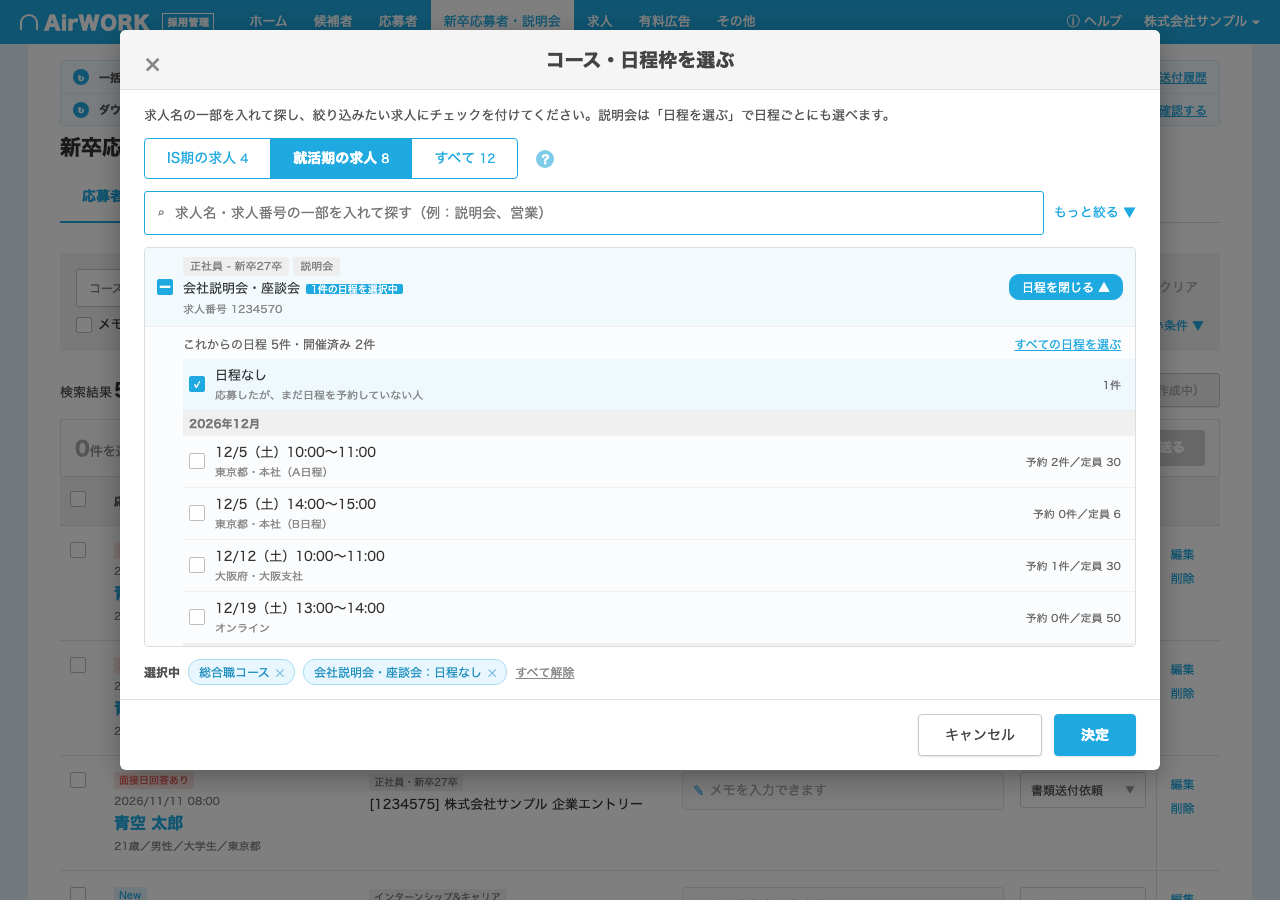
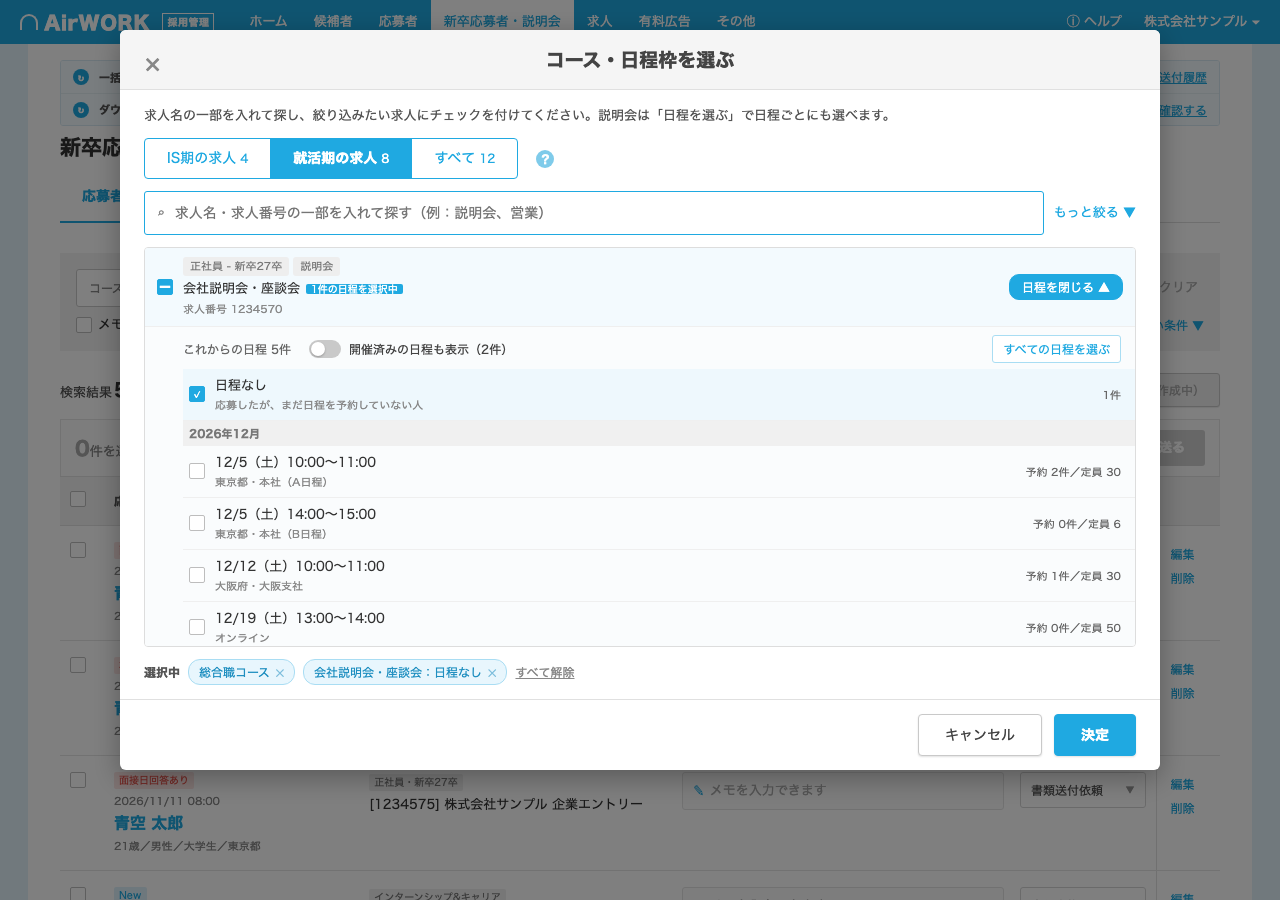
開催済みの日程の表示をスイッチにし、すべての日程を選ぶをボタンにする

diff --git a/app.js b/app.js
@@ -542,7 +542,7 @@
       const n = apps.filter((a) => a.slot === s.id).length;
       html += row(s.id, s.label, s.venue, `予約 ${n}件／定員 ${s.cap}${n >= s.cap ? '<span class="fullb">満席</span>' : ''}`, s.past ? 'pastr' : '');
     });
-    return `<div class="sub"><div class="subh"><span class="cnt">これからの日程 ${up.length}件</span>${past.length ? `<label class="cb pastcb" data-past="1"><span class="box ${M.showPast ? 'on' : ''}"></span>開催済みの日程も表示（${past.length}件）</label>` : ''}<span class="all" data-allslots="${j.id}">${jobOn ? 'すべての日程の選択を外す' : 'すべての日程を選ぶ'}</span></div>
+    return `<div class="sub"><div class="subh"><span class="cnt">これからの日程 ${up.length}件</span>${past.length ? `<label class="vsw" data-past="1"><span class="tr ${M.showPast ? 'on' : ''}"><span class="kn"></span></span>開催済みの日程も表示（${past.length}件）</label>` : ''}<span class="vbtn" data-allslots="${j.id}">${jobOn ? 'すべての日程の選択を外す' : 'すべての日程を選ぶ'}</span></div>
       ${html}</div>`;
   }
   $('kwTip').onclick = (e) => { e.preventDefault(); e.stopPropagation(); $('kwTip').classList.toggle('show'); };

diff --git a/style.css b/style.css
@@ -356,7 +356,12 @@ body.dirty table, body.dirty .pager, body.dirty .pinfo, body.dirty .empty { opac
 .subh .all { color: #1FA9E1; text-decoration: underline; cursor: pointer; margin-left: auto; }
 .subh { justify-content: flex-start; }
 .subh .cnt { margin-right: 18px; }
-.subh .pastcb { font-size: 12px; color: #444; cursor: pointer; }
+.subh .vsw { display: inline-flex; align-items: center; gap: 8px; font-size: 12px; color: #444; cursor: pointer; }
+.subh .tr { width: 32px; height: 18px; border-radius: 9px; background: #C9C9C9; position: relative; flex: none; transition: background .15s; }
+.subh .tr .kn { position: absolute; top: 2px; left: 2px; width: 14px; height: 14px; border-radius: 50%; background: #fff; box-shadow: 0 1px 2px rgba(0,0,0,.25); transition: left .15s; }
+.subh .tr.on { background: #1FA9E1; }
+.subh .tr.on .kn { left: 16px; }
+.subh .vbtn { margin-left: auto; font-size: 12px; color: #1FA9E1; border: 1px solid #A9DDF3; background: #fff; border-radius: 3px; padding: 4px 10px; cursor: pointer; }
 .sub .slr.pastr .main, .sub .slr.pastr .r { color: #999; }
 .sub .slr { padding: 7px 14px 7px 6px; background: transparent; }
 .sub .slr.on { background: #EEF8FD; }
